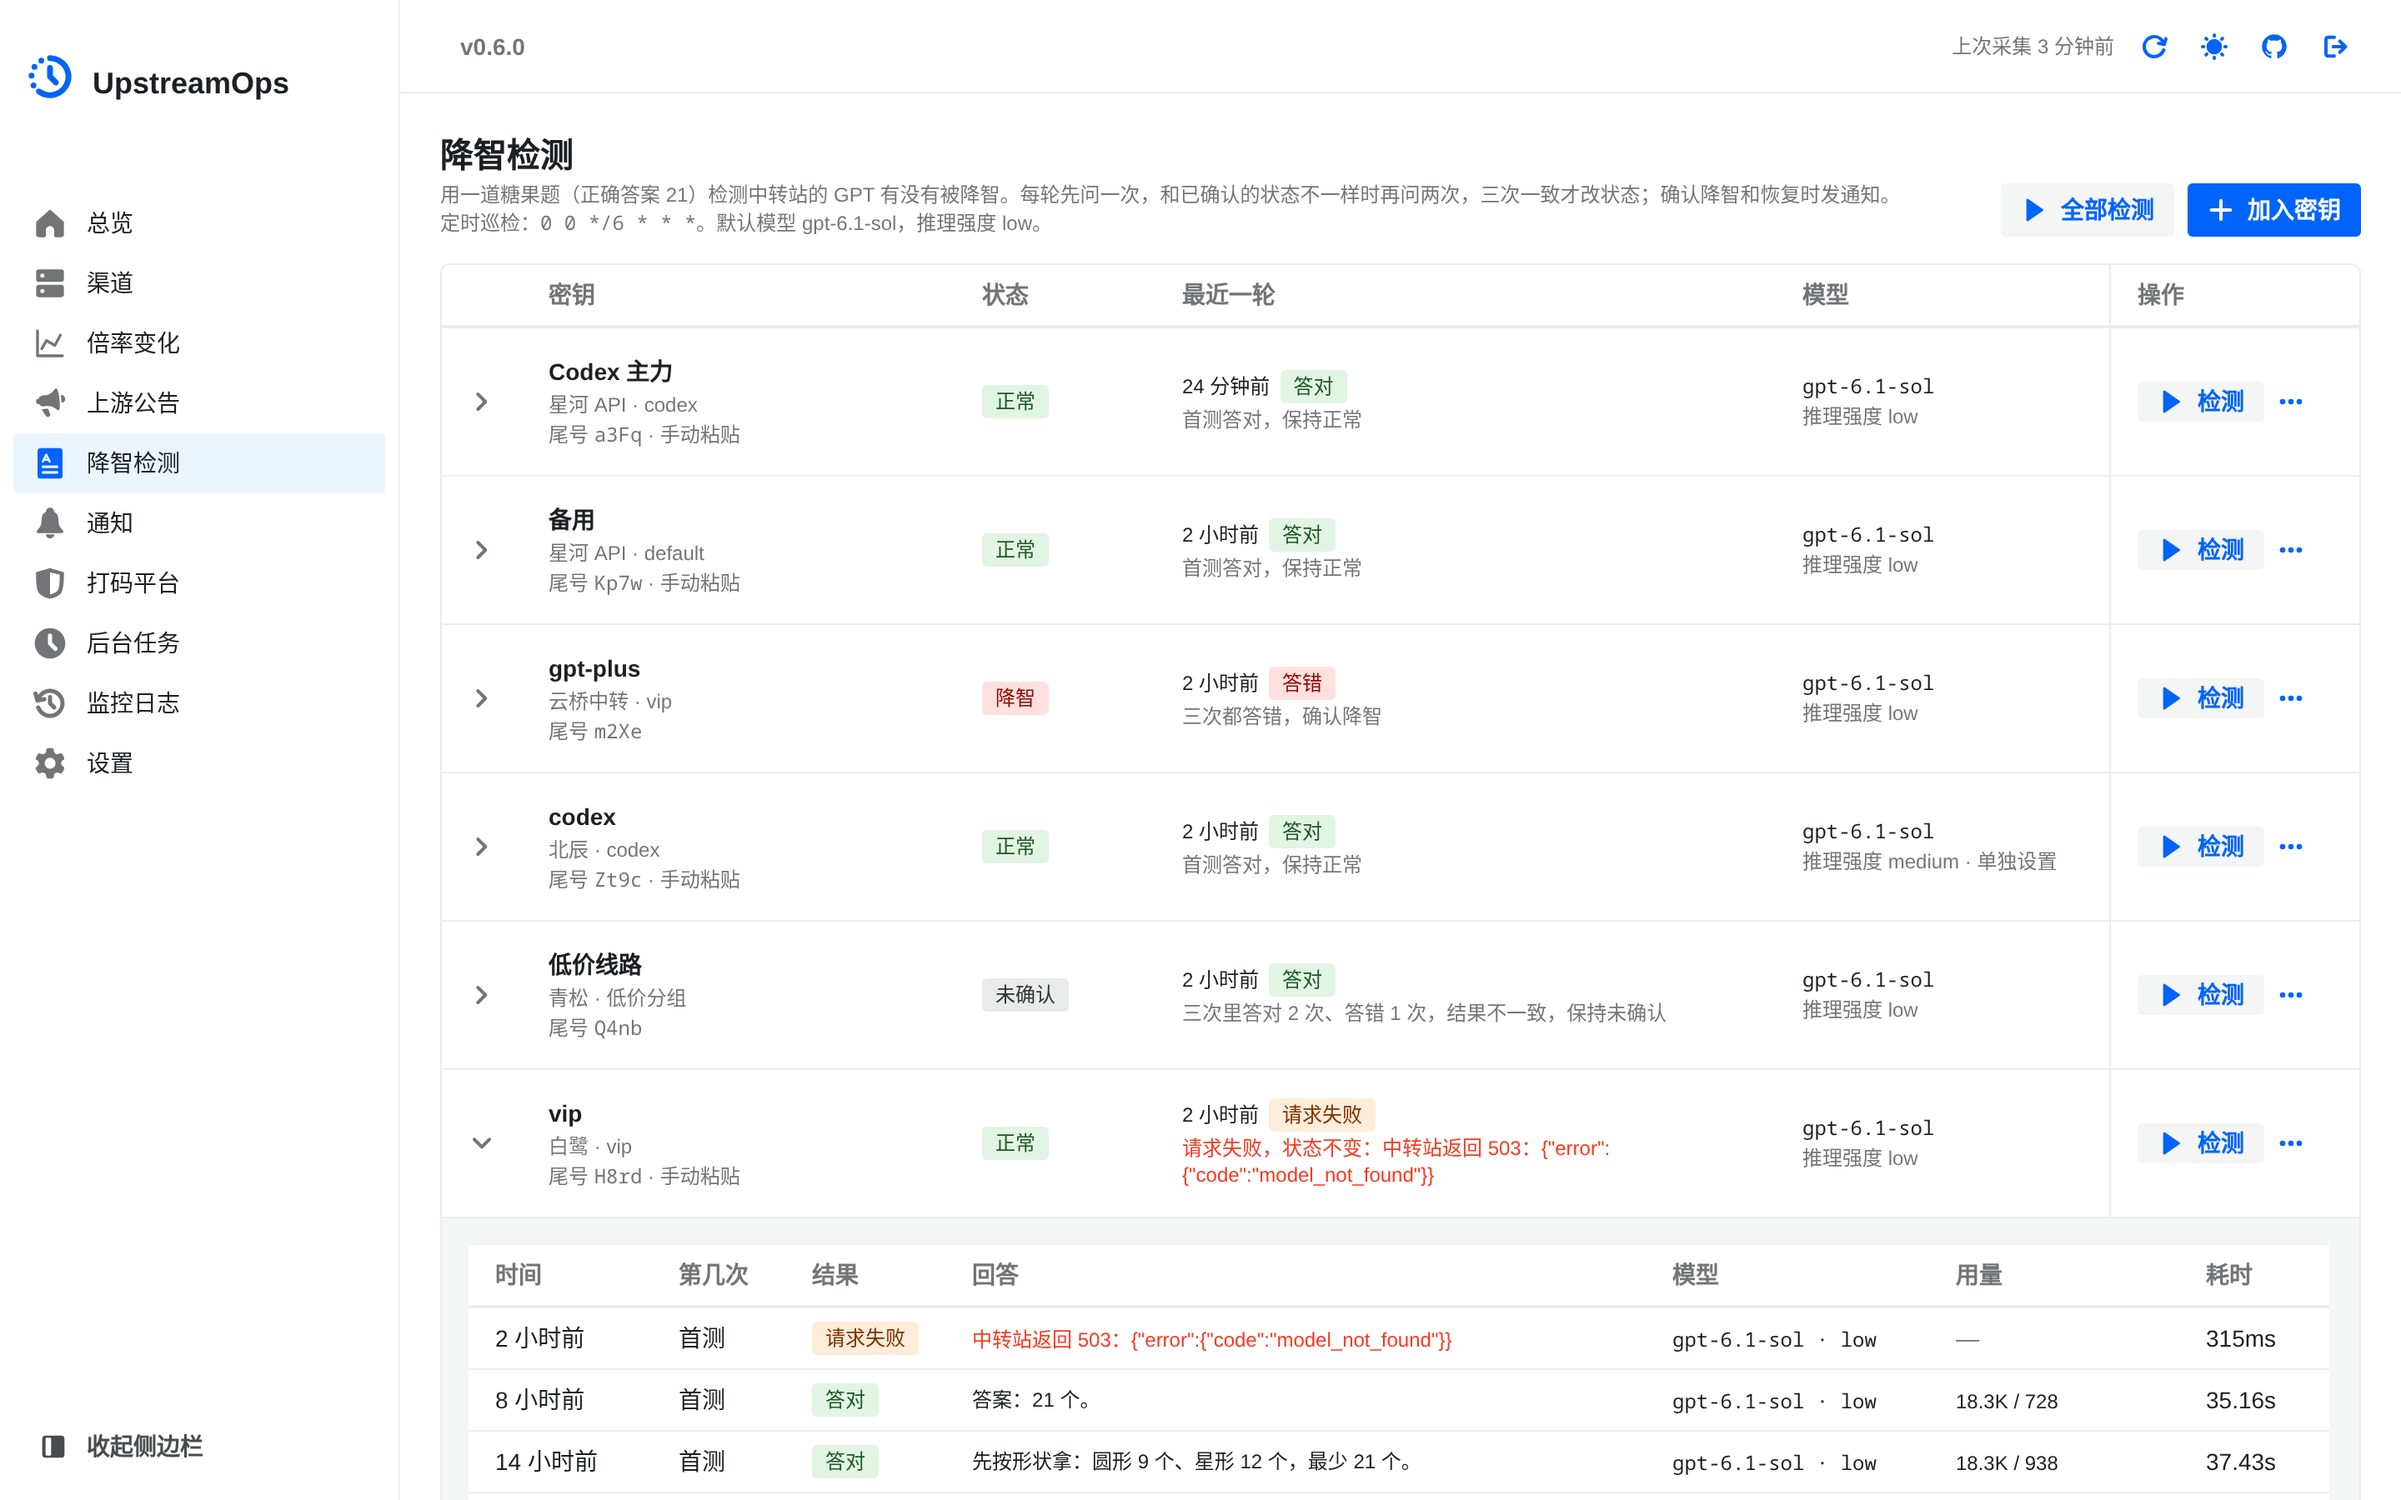
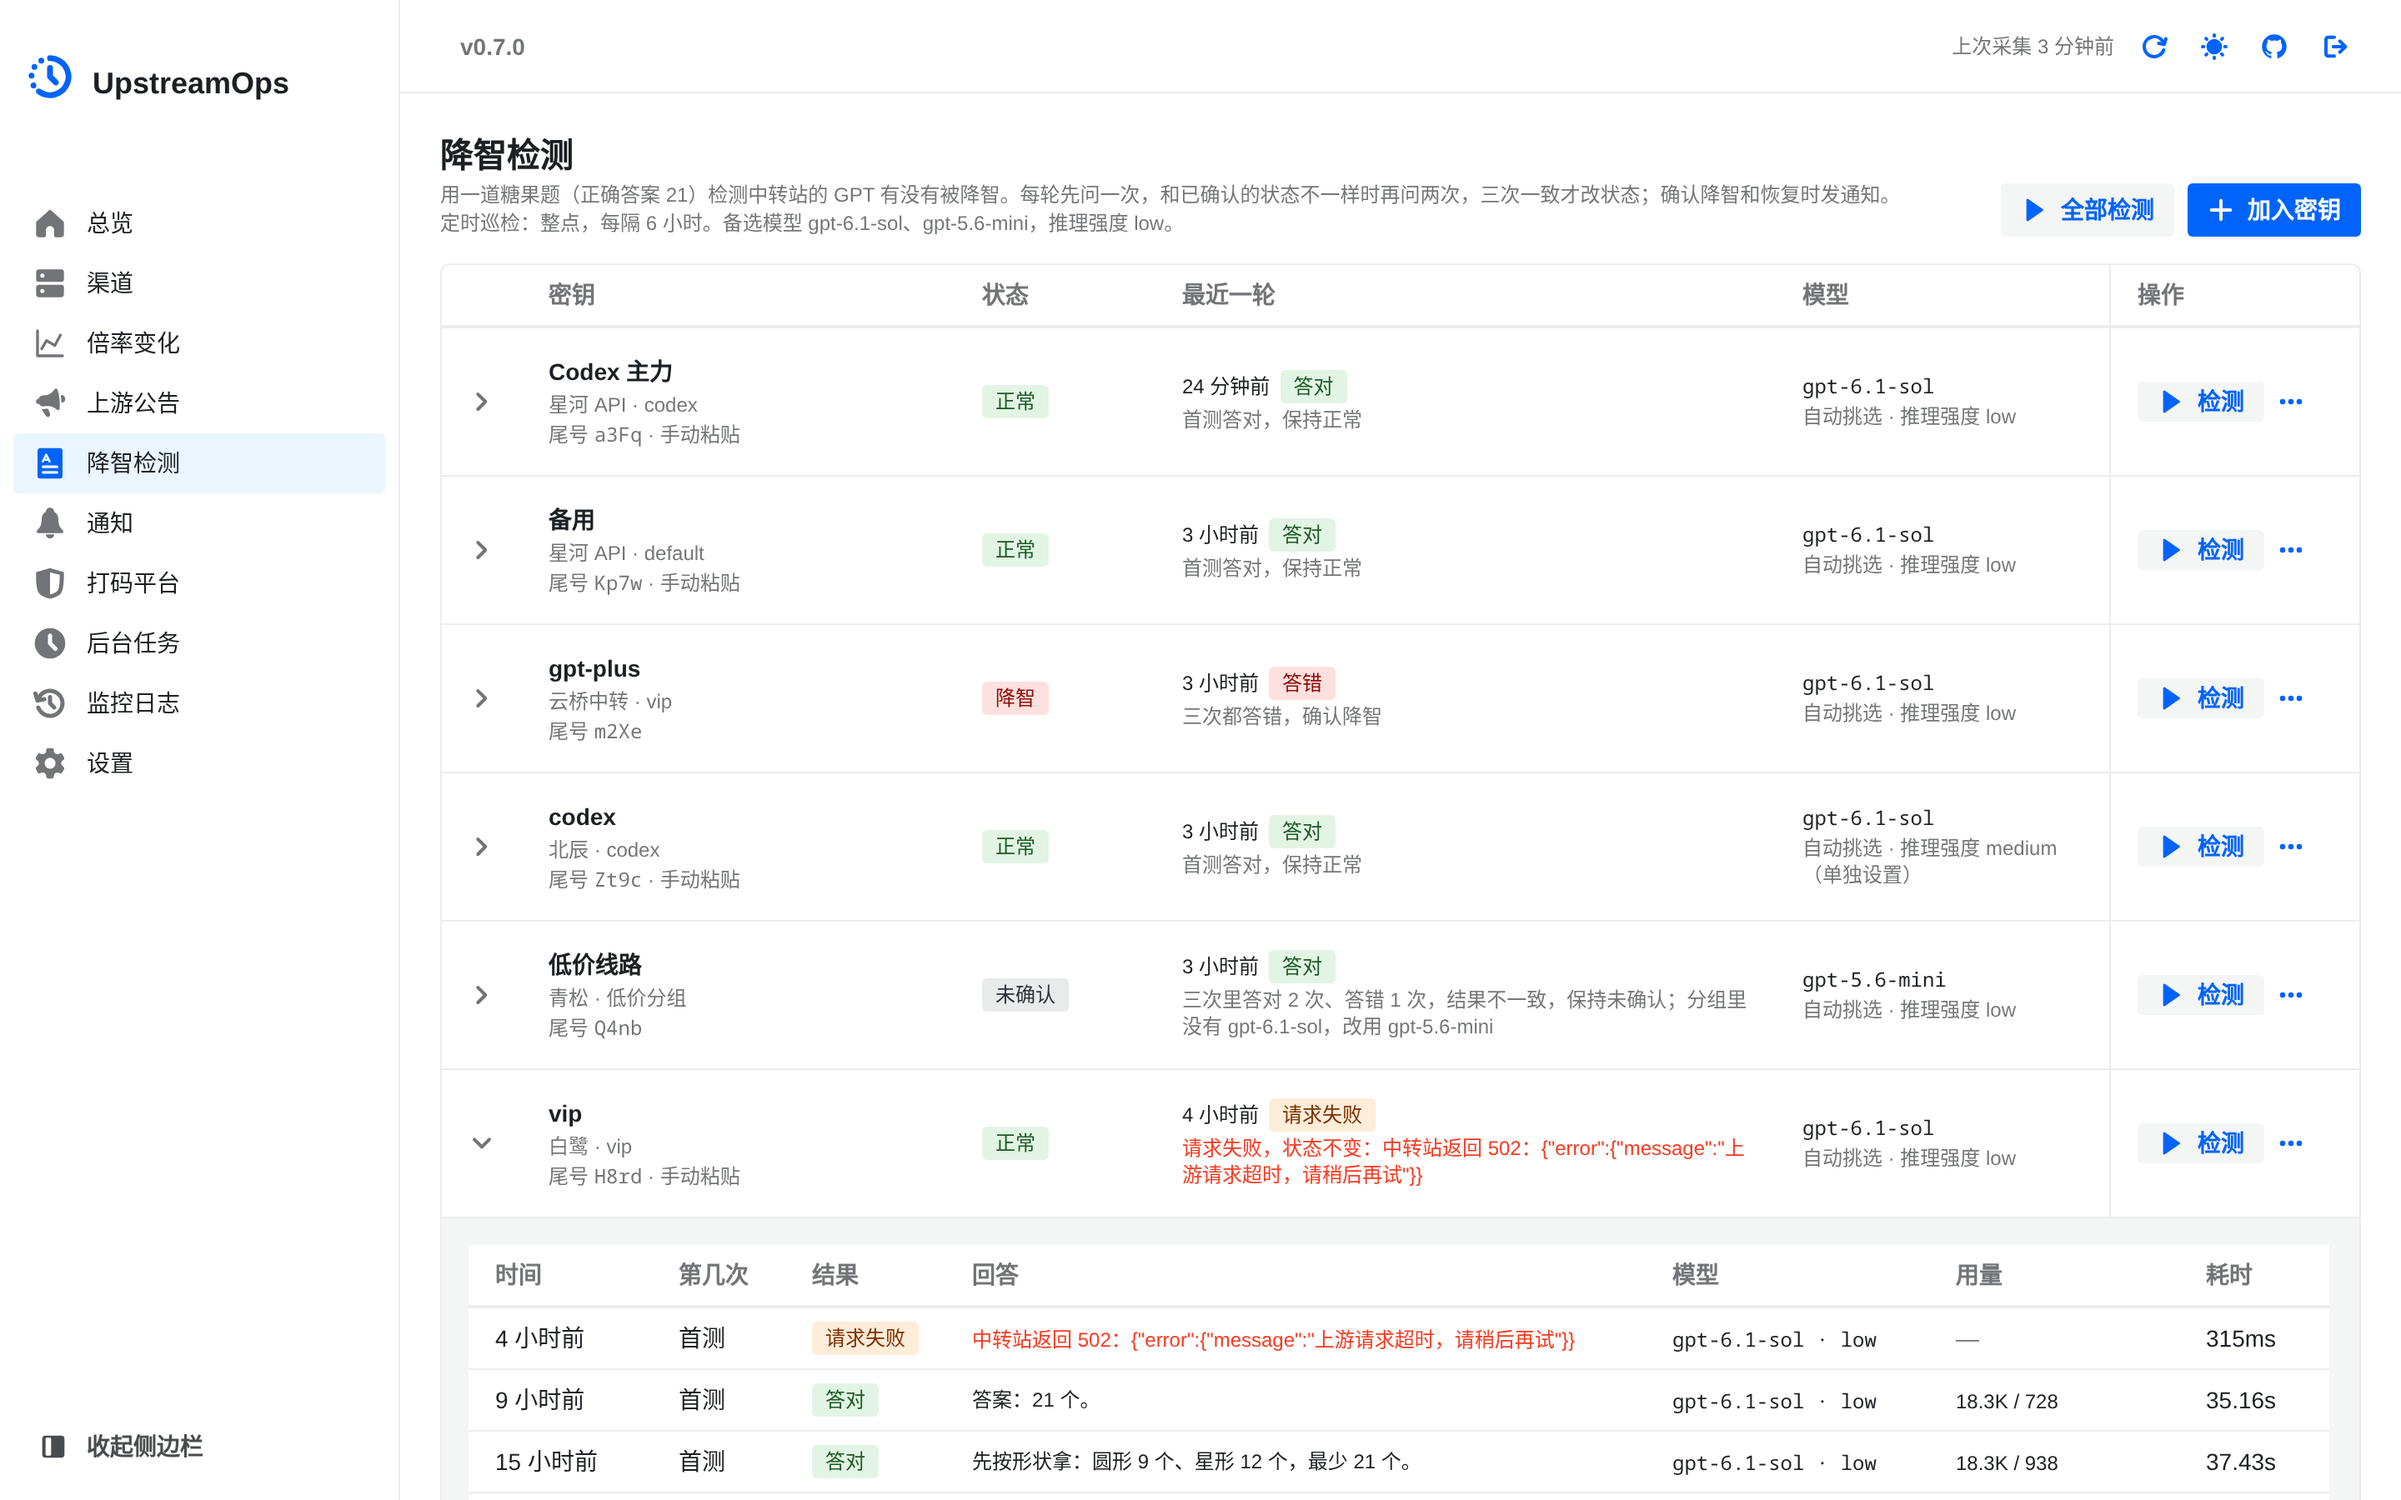
chore: 升级版本至v0.7.0，换上新的降智检测预览图

diff --git a/backend/global/version.go b/backend/global/version.go
@@ -1,4 +1,4 @@
 // Package global 存放构建版本等全局常量。
 package global
 
-const VERSION = "0.6.0"
+const VERSION = "0.7.0"

diff --git a/docs/CHANGELOG.md b/docs/CHANGELOG.md
@@ -4,7 +4,7 @@
 
 还没发版的改动先记在“未发布”下，发版时把这个标题改成版本号和日期，再打 tag。推送 `vX.Y.Z` tag 后，发布工作流会取对应段落作为 GitHub Release 的说明，并在末尾附上镜像地址和 digest；找不到对应段落会在构建镜像前失败。应用里“检测更新”发现新版本时，弹窗显示的就是这些 Release 说明。
 
-## 未发布
+## v0.7.0（2026-10-13）
 
 ### 变更
 

diff --git a/README.md b/README.md
@@ -292,7 +292,7 @@ IMAGE_TAG=latest
 生产环境建议锁定具体版本，例如：
 
 ```env
-IMAGE_TAG=v0.6.0
+IMAGE_TAG=v0.7.0
 ```
 
 ## 环境变量
